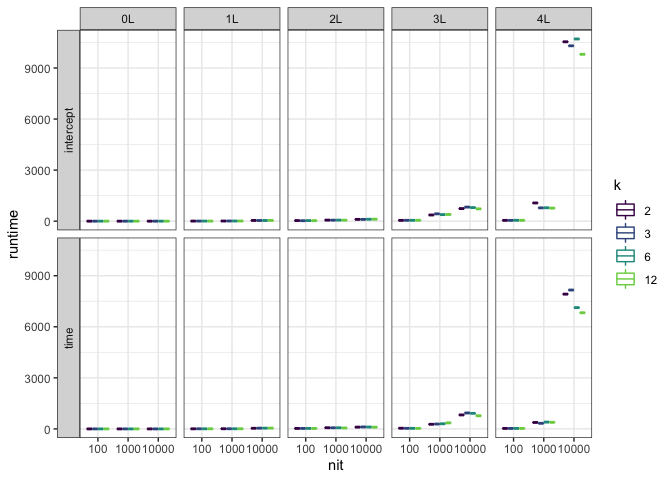
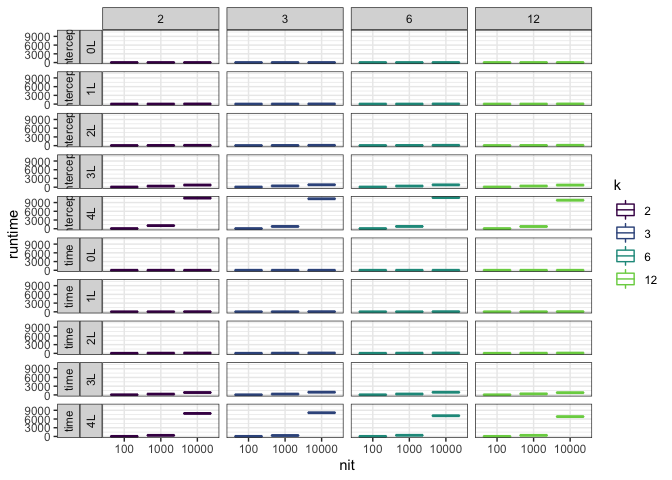
rearrange facets

Changed region(s): [[0.0312, 0.0, 0.875, 1.0]]

diff --git a/analysis/reports/summary.md b/analysis/reports/summary.md
@@ -43,7 +43,7 @@ model_info <- left_join(model_names, runtime, by = "full_name")
 
 runtime_plot <- ggplot(data = model_info, aes(x = nit, y = runtime, color = k)) +
   geom_boxplot() +
-  facet_grid(rows = vars(cov), cols = vars(ncpts), switch = "y") +
+  facet_grid(rows = vars(cov, ncpts), cols = vars(k), switch = "y") +
   theme_bw() +
   scale_color_viridis_d(end = .8)
 runtime_plot
@@ -71,7 +71,7 @@ model_info <- left_join(model_info, aiccs, by = "full_name")
 
 aic_plot <- ggplot(data = model_info, aes(x = nit, y = aic, color = k)) +
   geom_boxplot() +
-  facet_grid(rows = vars(cov), cols = vars(ncpts), switch = "y") +
+  facet_grid(rows = vars(cov, ncpts), cols = vars(k), switch = "y") +
   theme_bw() +
   scale_color_viridis_d(end = .8)
 
@@ -90,14 +90,14 @@ models_1977_2_0L_time_100$ts[[1]]$formula
 ```
 
     ## gamma ~ year
-    ## <environment: 0x7f9526ccebb0>
+    ## <environment: 0x7f8ce3b815b0>
 
 ``` r
 models_1977_2_0L_intercept_100$ts[[1]]$formula
 ```
 
     ## gamma ~ 1
-    ## <environment: 0x7f952d466aa8>
+    ## <environment: 0x7f8ce46fc1d0>
 
 ``` r
 plot(models_1977_2_0L_time_100$ts[[1]])
@@ -119,14 +119,14 @@ models_1977_2_1L_time_100$ts[[1]]$formula
 ```
 
     ## gamma ~ year
-    ## <environment: 0x7f953020fde8>
+    ## <environment: 0x7f8ce3f70940>
 
 ``` r
 models_1977_2_1L_intercept_100$ts[[1]]$formula
 ```
 
     ## gamma ~ 1
-    ## <environment: 0x7f952a8d5f10>
+    ## <environment: 0x7f8ce5d15ea0>
 
 ``` r
 plot(models_1977_2_1L_time_100$ts[[1]])
@@ -140,12 +140,12 @@ plot(models_1977_2_1L_intercept_100$ts[[1]])
 
 ![](summary_files/figure-markdown_github/dig%20in-4.png)
 
-Interestingly, AICc matches across nb iterations but does change for model configurations. My current guess is that this is so few iterations, 1000 vs. 100 doesn't give substantially different fits. More iterations might start to show changes - stay tuned for 10k from the hipergator.
+Interestingly, AICc matches across nb iterations but does change for model configurations. My current guess is that this is so few iterations, 10000 vs. 100 doesn't give substantially different fits. More iterations might start to show changes - stay tuned for 100k from the hipergator.
 
 ``` r
 aicc_plot <- ggplot(data = model_info, aes(x = nit, y = aicc, color = k)) +
   geom_boxplot() +
-  facet_grid(rows = vars(cov), cols = vars(ncpts), switch = "y") +
+  facet_grid(rows = vars(cov, ncpts), cols = vars(k), switch = "y") +
   theme_bw() +
   scale_color_viridis_d(end = .8)
 
@@ -187,4 +187,37 @@ etas_plot <- ggplot(data = etas_info, aes(x = draw, y = estimate, color = k)) +
 etas_plot
 ```
 
-![](summary_files/figure-markdown_github/extract%20eta%20estimates-1.png)
+![](summary_files/figure-markdown_github/etas-1.png)
+
+### Rhos (changepoint locations)
+
+``` r
+get_rhos <- function(ts_result) {
+  rhos_df <- ts_result$ts[[1]]$rhos %>%
+    as.data.frame() %>%
+    mutate(draw = row_number())
+  
+  return(rhos_df)
+}
+
+rhos <- lapply(all_models, FUN = get_rhos)
+
+rhos <- bind_rows(rhos, .id = "full_name") %>%
+  tidyr::gather(-draw, -full_name, key = "changepoint", value = "estimate") %>%
+  filter(!is.na(estimate)) %>%
+  mutate(changepoint = substr(changepoint, 2, nchar(changepoint)))
+
+rhos_info <- left_join(rhos, model_info, by = "full_name") %>%
+  filter(k %in% c(2,3),
+         as.character(ncpts) %in% c("1L", "4L"))
+
+
+rhos_plot <- ggplot(data = rhos_info, aes(x = draw, y = estimate, color = changepoint)) +
+  geom_line() +
+  theme_bw() +
+  facet_grid(rows = vars(ncpts, cov, k), cols = vars(nit), scales = "free", switch = "y", drop = TRUE) +
+  scale_color_viridis_d(end = .8)
+rhos_plot
+```
+
+![](summary_files/figure-markdown_github/rhos-1.png)
